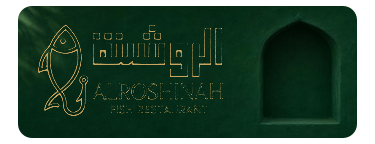
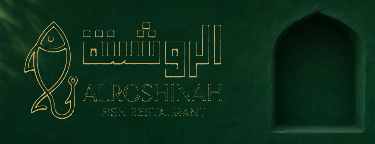
Wallet card: the picture edge to edge and one centred line under it (the gift, or the welcome); the name moves to the back

diff --git a/web/src/lib/appleWallet.ts b/web/src/lib/appleWallet.ts
@@ -182,20 +182,29 @@ export function lampStripImages(slug: string, level: LampLevel): Record<string, 
  * A venue's text ornaments for its Wallet card (passes/<venue>/decor.json): "label" is one character set beside each
  * label, "code" one set on both sides of the member code under the QR. Missing file or entry: no ornament.
  */
-function decor(slug: string): { label?: string; code?: string; caption?: string; captionOnly?: boolean; row?: string; welcome?: string } {
+function decor(slug: string): { label?: string; code?: string; caption?: string; captionOnly?: boolean; row?: string; welcome?: string; single?: boolean } {
   try {
     const d = JSON.parse(readFileSync(path.join(process.cwd(), "passes", slug, "decor.json"), "utf8")) as Record<string, unknown>;
     const one = (v: unknown) => (typeof v === "string" && v.trim() && [...v.trim()].length <= 2 ? v.trim() : undefined);
     const caption = typeof d.caption === "string" && d.caption.trim() ? d.caption.trim().slice(0, 40) : undefined;
     const line = (v: unknown) => (typeof v === "string" && v.trim() ? v.trim().slice(0, 60) : undefined);
-    return { label: one(d.label), code: one(d.code), caption, captionOnly: d.captionOnly === true, row: line(d.row), welcome: line(d.welcome) };
+    return { label: one(d.label), code: one(d.code), caption, captionOnly: d.captionOnly === true, row: line(d.row), welcome: line(d.welcome), single: d.layout === "single" };
   } catch {
     return {};
   }
 }
 export function secondRow(slug: string): { row: string; welcome: string } | null {
-  const { row, welcome } = decor(slug);
-  return row && welcome ? { row, welcome } : null;
+  const { row, welcome, single } = decor(slug);
+  return row && welcome && !single ? { row, welcome } : null;
+}
+/**
+ * "layout": "single": one centred line under the artwork and nothing beside it. Wallet centres a store card's row only
+ * when a single field is on it (seen on real cards), so the member's name moves to the back. The line is the waiting
+ * gift, or the venue's welcome; "row" is the small line of ornaments above it.
+ */
+export function singleLine(slug: string): { row: string; welcome: string } | null {
+  const { row, welcome, single } = decor(slug);
+  return single && welcome ? { row: row ?? "", welcome } : null;
 }
 export const captionSet = (slug: string): boolean => Boolean(decor(slug).caption);
 export const labelOrnament = (slug: string): string | undefined => decor(slug).label;
@@ -342,7 +351,13 @@ export async function buildPass(venue: Venue, card: Card, memberName: string, ba
     const orn = labelOrnament(venue.slug);
     const left = (label: string) => (orn ? `${orn} ${label}` : label), right = (label: string) => (orn ? `${label} ${orn}` : label);
     storeCard.headerFields.push({ key: "visits", label: right("VISITS"), value: card.visits, textAlignment: "PKTextAlignmentRight" as const });
-    storeCard.secondaryFields.push(
+    const one = singleLine(venue.slug);
+    if (one) storeCard.secondaryFields.push({
+      key: "gift", label: one.row, textAlignment: "PKTextAlignmentCenter" as const,
+      value: gift ? (orn ? `${orn}  ${gift.title}  ${orn}` : gift.title) : one.welcome,
+      ...(gift ? { changeMessage: "Your gift is ready: %@" } : {}),
+    });
+    else storeCard.secondaryFields.push(
       { key: "member", label: left("MEMBER"), value: memberName },
       gift
         ? { key: "gift", label: right("YOUR GIFT"), value: gift.title, textAlignment: "PKTextAlignmentRight" as const, changeMessage: "Your gift is ready: %@" }
@@ -358,6 +373,7 @@ export async function buildPass(venue: Venue, card: Card, memberName: string, ba
       ...(offer ? [backFields[0]] : []),
       ...(gift ? [{ key: "giftHow", label: "Your gift", value: [gift.title, gift.detail, gift.redeemBranchName ? `Use it at ${gift.redeemBranchName}.` : null, gift.expiresAt ? `Valid until ${new Date(gift.expiresAt).toLocaleDateString("en-GB", { day: "numeric", month: "long", year: "numeric", timeZone: "Asia/Bahrain" })}.` : null, "One use only. Show this card to the staff."].filter(Boolean).join(" ") }] : []),
       ...(used.length ? [{ key: "giftUsed", label: "Used", value: used.map((v) => v.title).join(" · ") }] : []),
+      ...(one ? [{ key: "member", label: "Member", value: memberName }] : []),
       ...(captionSet(venue.slug) ? [{ key: "code", label: "Member code", value: card.code }] : []),
       { key: "open", label: "Your card", value: `Open your ${venue.name} card`, attributedValue: `<a href="${cardUrl}">Open your ${venue.name} card</a>` },
       ...link("menu", "Menu", "See the menu", main?.menuUrl ?? `${base}/menu/${venue.slug}`),

diff --git a/web/tests/giftPhoto.test.ts b/web/tests/giftPhoto.test.ts
@@ -36,7 +36,7 @@ afterEach(() => vi.unstubAllGlobals());
 describe("where the niche is", () => {
   it("is read for Al Roshinah and sits inside the strip, on its right", () => {
     const n = nicheOf("roshinah")!;
-    expect(n).toEqual({ l: 800, r: 1002, floor: 350, spring: 172, tip: 70 });
+    expect(n).toEqual({ l: 838, r: 1073, floor: 372, spring: 165, tip: 46 });
     expect(n.l).toBeGreaterThan(1125 / 2);
   });
 
@@ -91,8 +91,8 @@ describe("the card's picture with a gift's photo", () => {
     expect(b).toBeLessThan(80);
     // The wall beside the niche, the shelf below it and the corner above the arch are untouched.
     for (const [x, y] of [[300, 200], [n.l - 12, 200], [n.r + 12, 200], [(n.l + n.r) >> 1, n.floor + 8], [n.l + 4, n.tip + 4], [n.r - 4, n.tip + 4]]) expect(px(out, x, y), `${x},${y}`).toEqual(px(before, x, y));
-    // The card keeps its transparent corners.
-    expect(px(out, 0, 0)[3]).toBe(0);
+    // The corner is as it was (opaque: this picture runs edge to edge).
+    expect(px(out, 0, 0)).toEqual(px(before, 0, 0));
   });
 
   it("gives the three Wallet files at the strip's exact sizes, from a picture held in the record", async () => {

diff --git a/web/tests/passStripFiles.test.ts b/web/tests/passStripFiles.test.ts
@@ -28,10 +28,12 @@ describe.each(venues.map((v) => v.name))("strip images of %s", (slug) => {
     for (const s of scales) expect(pngSize(files[STRIP_FILES[s]])).toEqual(stripPixels(s));
   });
 
-  it.each(scales)("is transparent in the four corners and the left and right margins, opaque in the middle (%ix)", (s) => {
+  // A venue whose picture runs edge to edge (scripts/card-bleed.mjs keeps the old one in margin/) is opaque everywhere.
+  const bleed = existsSync(path.join(root, slug, "margin"));
+  it.each(scales)("is transparent in the four corners and the left and right margins (opaque there when edge to edge), opaque in the middle (%ix)", (s) => {
     const png = PNG.sync.read(files[STRIP_FILES[s]]);
     const { width: w, height: h } = png;
-    for (const [x, y] of [[0, 0], [w - 1, 0], [0, h - 1], [w - 1, h - 1], [1, h >> 1], [w - 2, h >> 1]]) expect(alphaAt(png, x, y)).toBe(0);
+    for (const [x, y] of [[0, 0], [w - 1, 0], [0, h - 1], [w - 1, h - 1], [1, h >> 1], [w - 2, h >> 1]]) expect(alphaAt(png, x, y)).toBe(bleed ? 255 : 0);
     expect(alphaAt(png, w >> 1, h >> 1)).toBe(255);
   });
 });

diff --git a/web/tests/lamp.test.ts b/web/tests/lamp.test.ts
@@ -68,10 +68,10 @@ describe("the Wallet card's picture at each level (Al Roshinah)", () => {
     for (let i = 1; i < steps.length; i++) expect(steps[i], `level ${i}`).toBeGreaterThan(steps[i - 1] + 2);
   });
 
-  it("keeps the transparent corners, so the card's colour still shows around the picture", () => {
+  it("fills the whole strip at every level: Al Roshinah's picture runs edge to edge (scripts/card-bleed.mjs)", () => {
     for (const level of [1, 2, 3] as LampLevel[]) {
       const png = PNG.sync.read(lampStripImages("roshinah", level)[STRIP_FILES[2]]);
-      expect(png.data[3]).toBe(0);
+      expect(png.data[3]).toBe(255);
       expect(png.data[((png.height >> 1) * png.width + (png.width >> 1)) * 4 + 3]).toBe(255);
     }
   });
